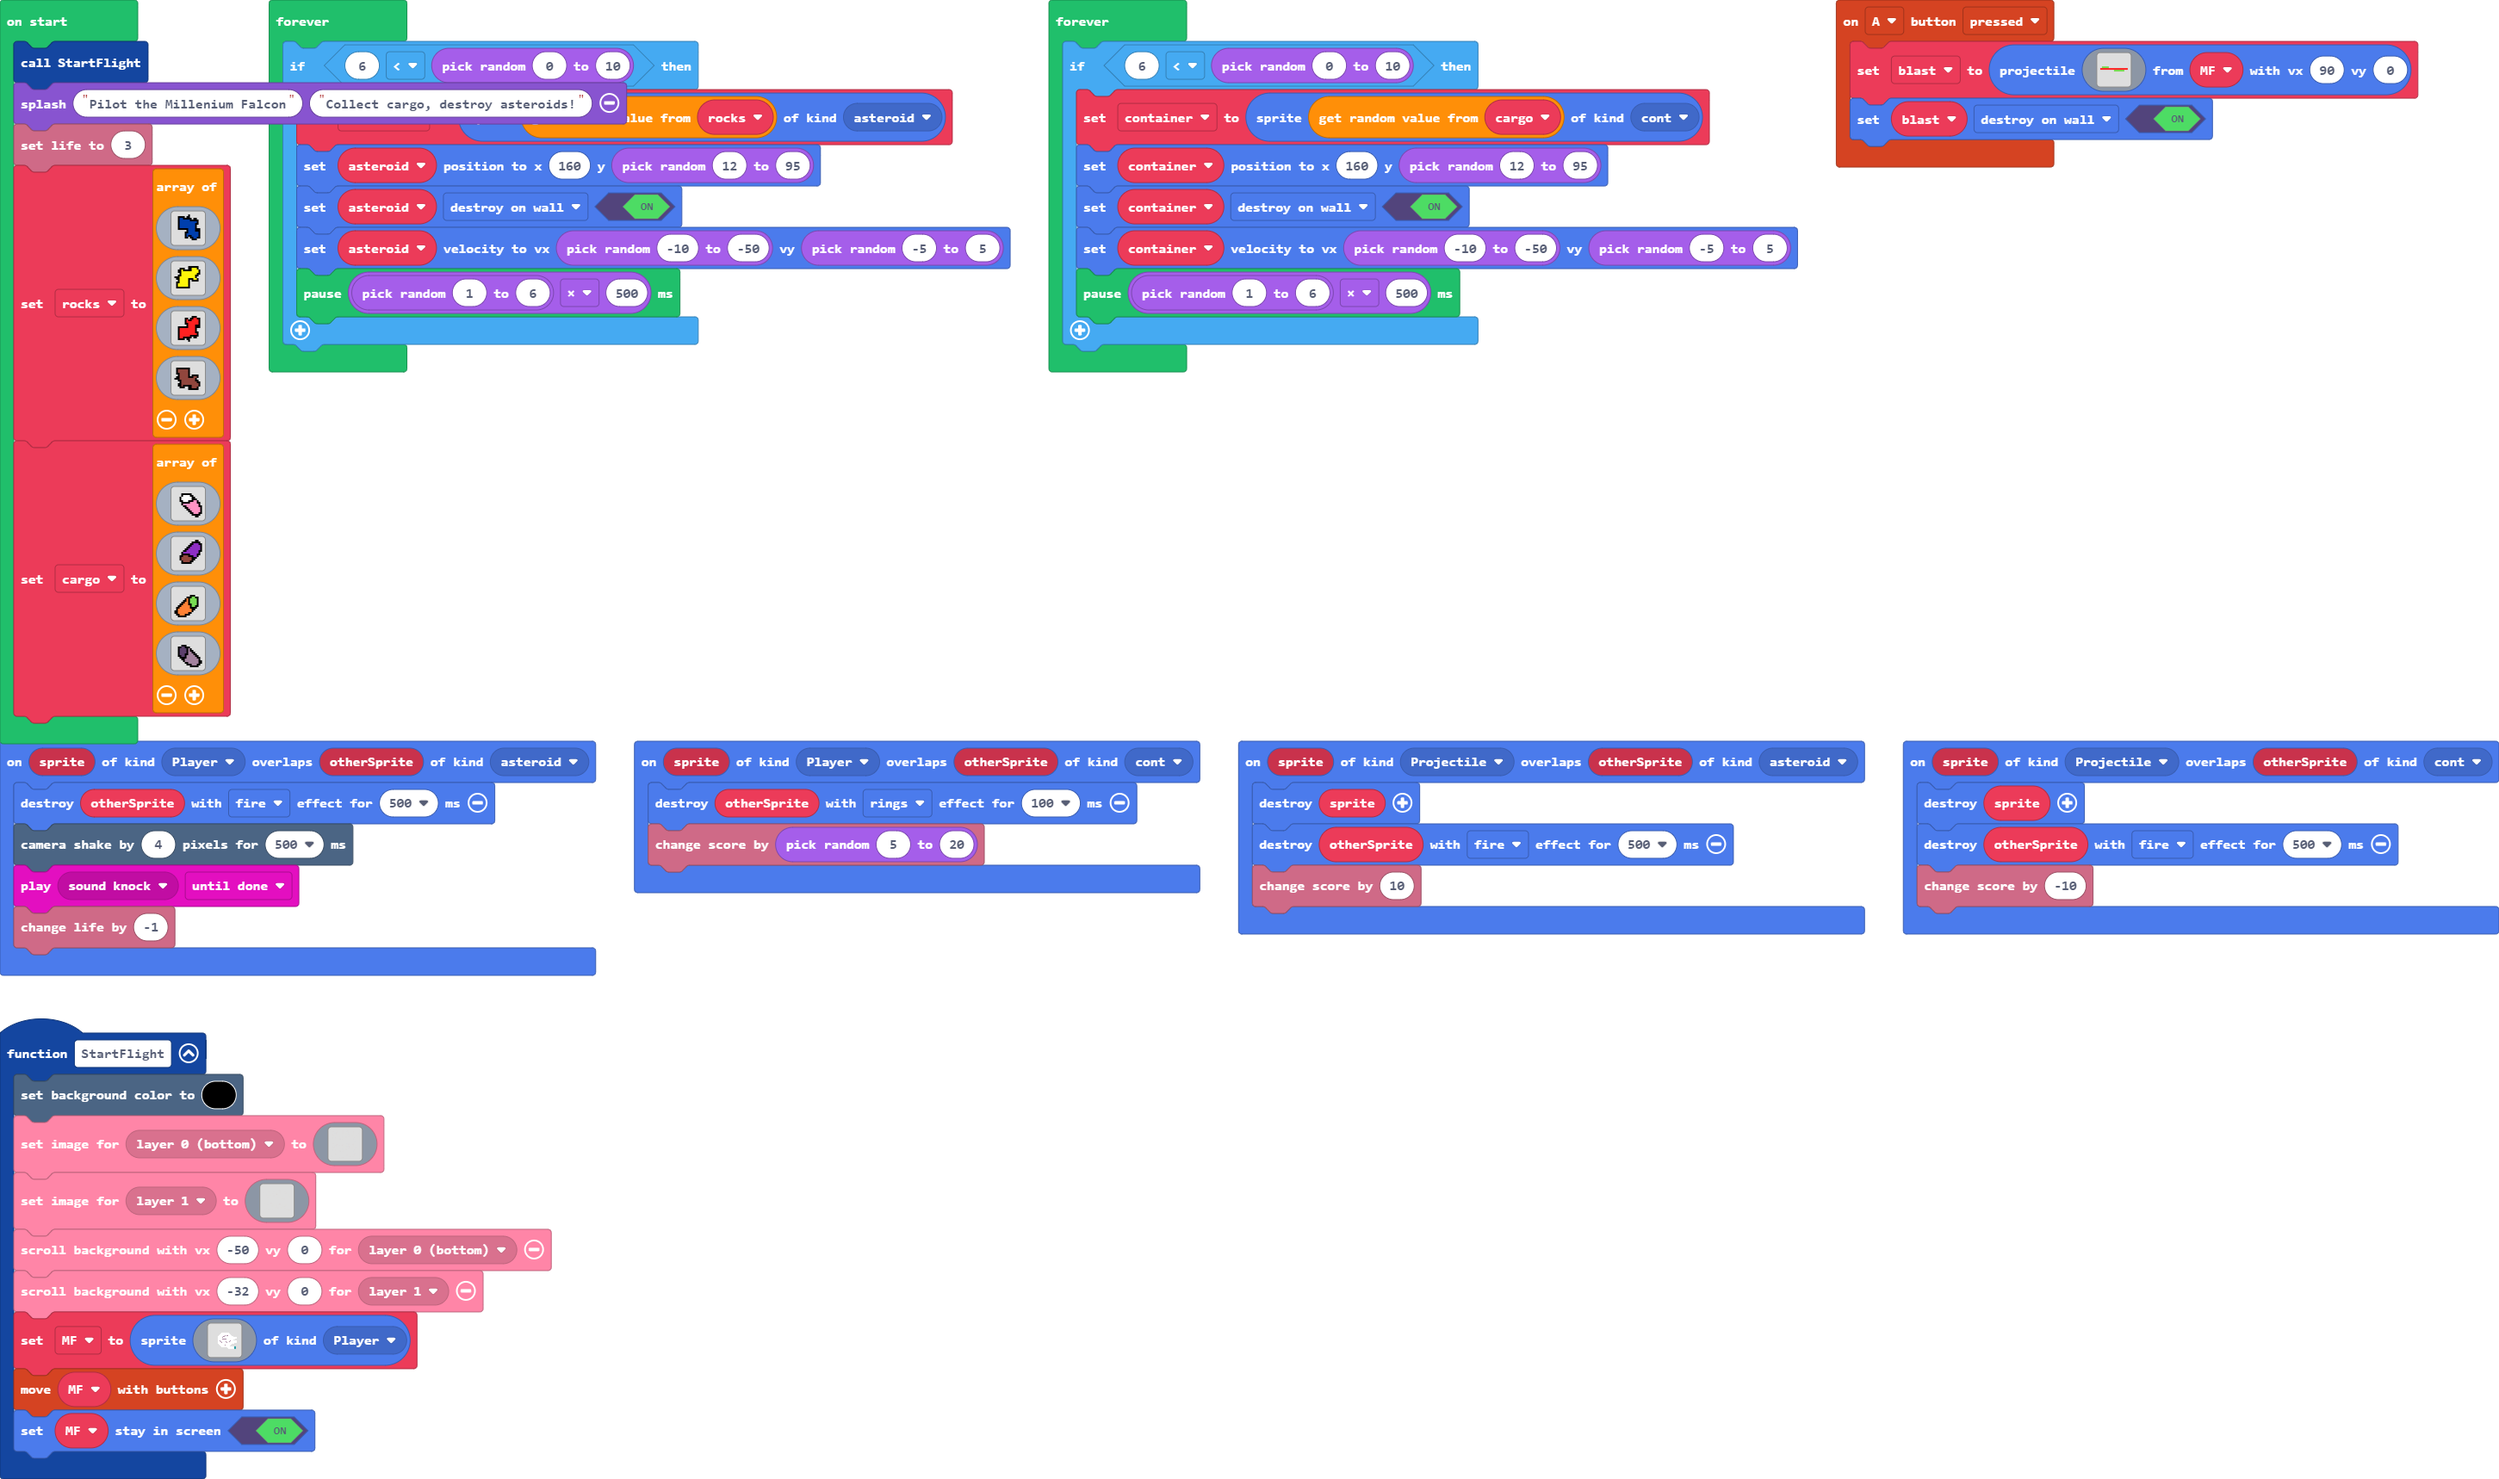
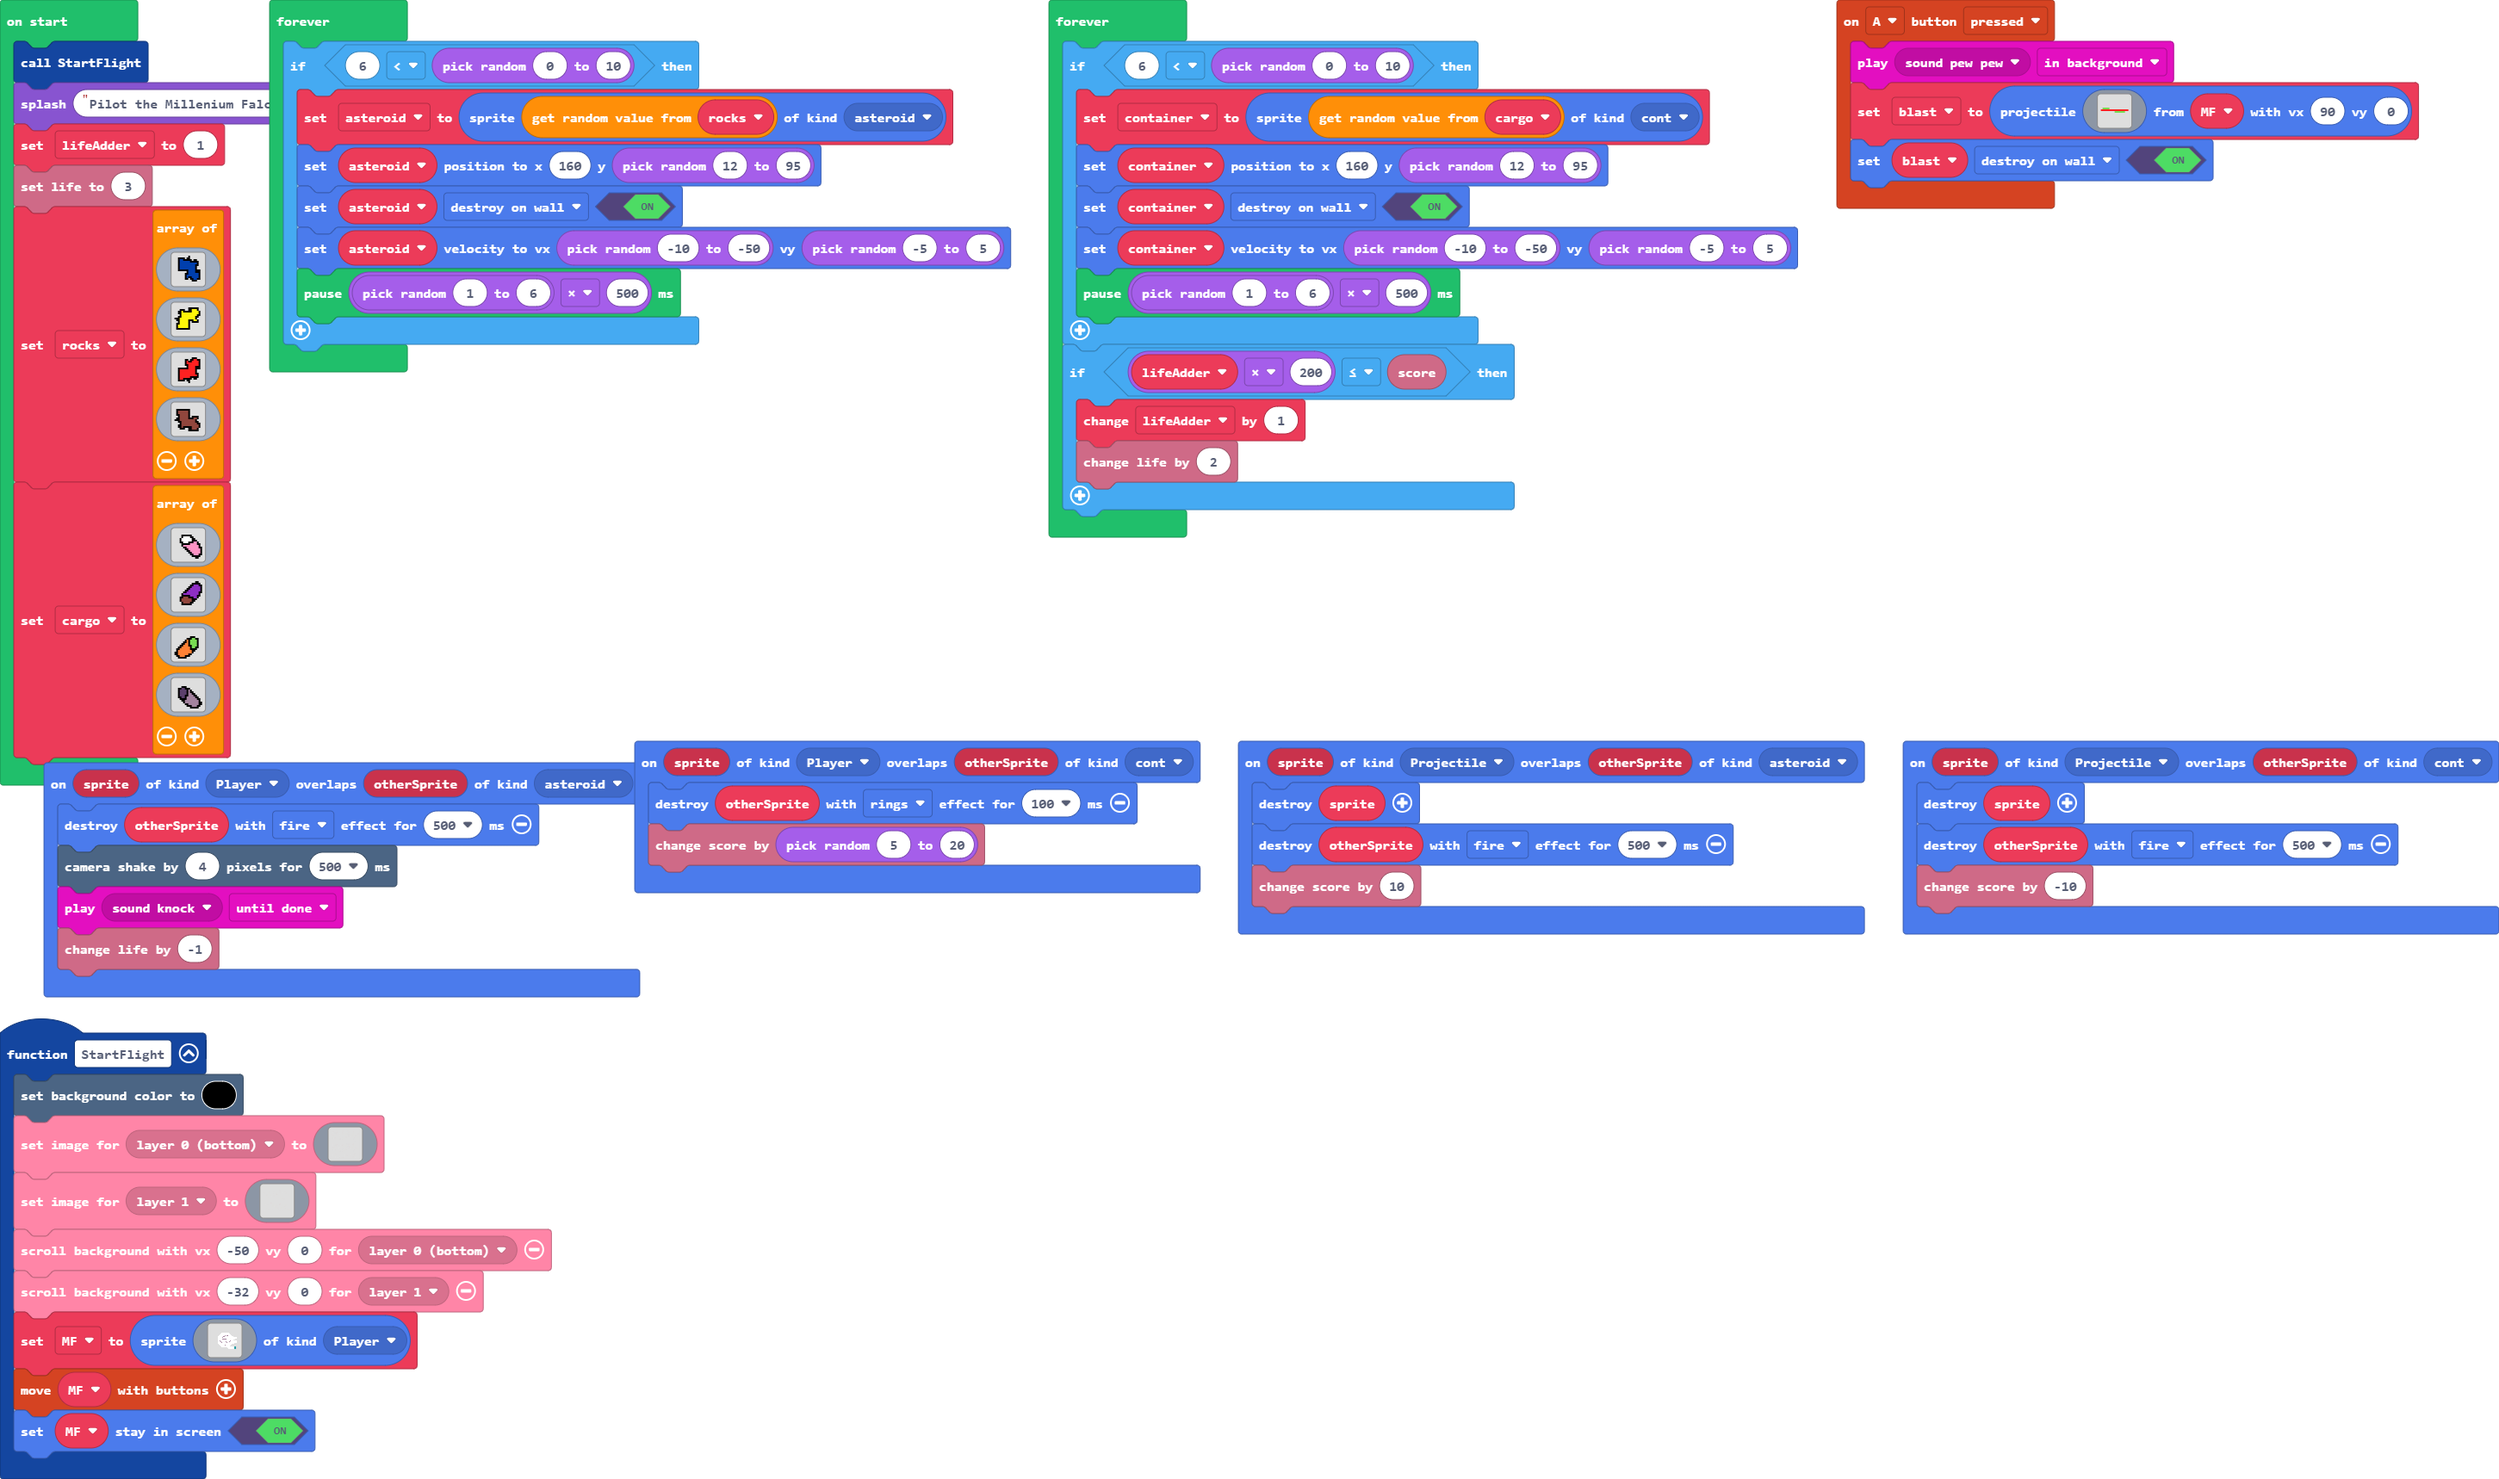
Update pxt.json, main.blocks, main.ts

diff --git a/main.ts b/main.ts
@@ -4,6 +4,7 @@ namespace SpriteKind {
     export const cont = SpriteKind.create()
 }
 controller.A.onEvent(ControllerButtonEvent.Pressed, function () {
+    music.play(music.melodyPlayable(music.pewPew), music.PlaybackMode.InBackground)
     blast = sprites.createProjectileFromSprite(assets.image`laser`, MF, 90, 0)
     blast.setFlag(SpriteFlag.DestroyOnWall, true)
 })
@@ -43,6 +44,7 @@ let MF: Sprite = null
 let blast: Sprite = null
 StartFlight()
 game.splash("Pilot the Millenium Falcon", "Collect cargo, destroy asteroids!")
+let lifeAdder = 1
 info.setLife(3)
 let rocks = [
 assets.image`rock0`,
@@ -72,5 +74,9 @@ forever(function () {
         container.setFlag(SpriteFlag.DestroyOnWall, true)
         container.setVelocity(randint(-10, -50), randint(-5, 5))
         pause(randint(1, 6) * 500)
+    }
+    if (lifeAdder * 200 <= info.score()) {
+        lifeAdder += 1
+        info.changeLifeBy(2)
     }
 })
